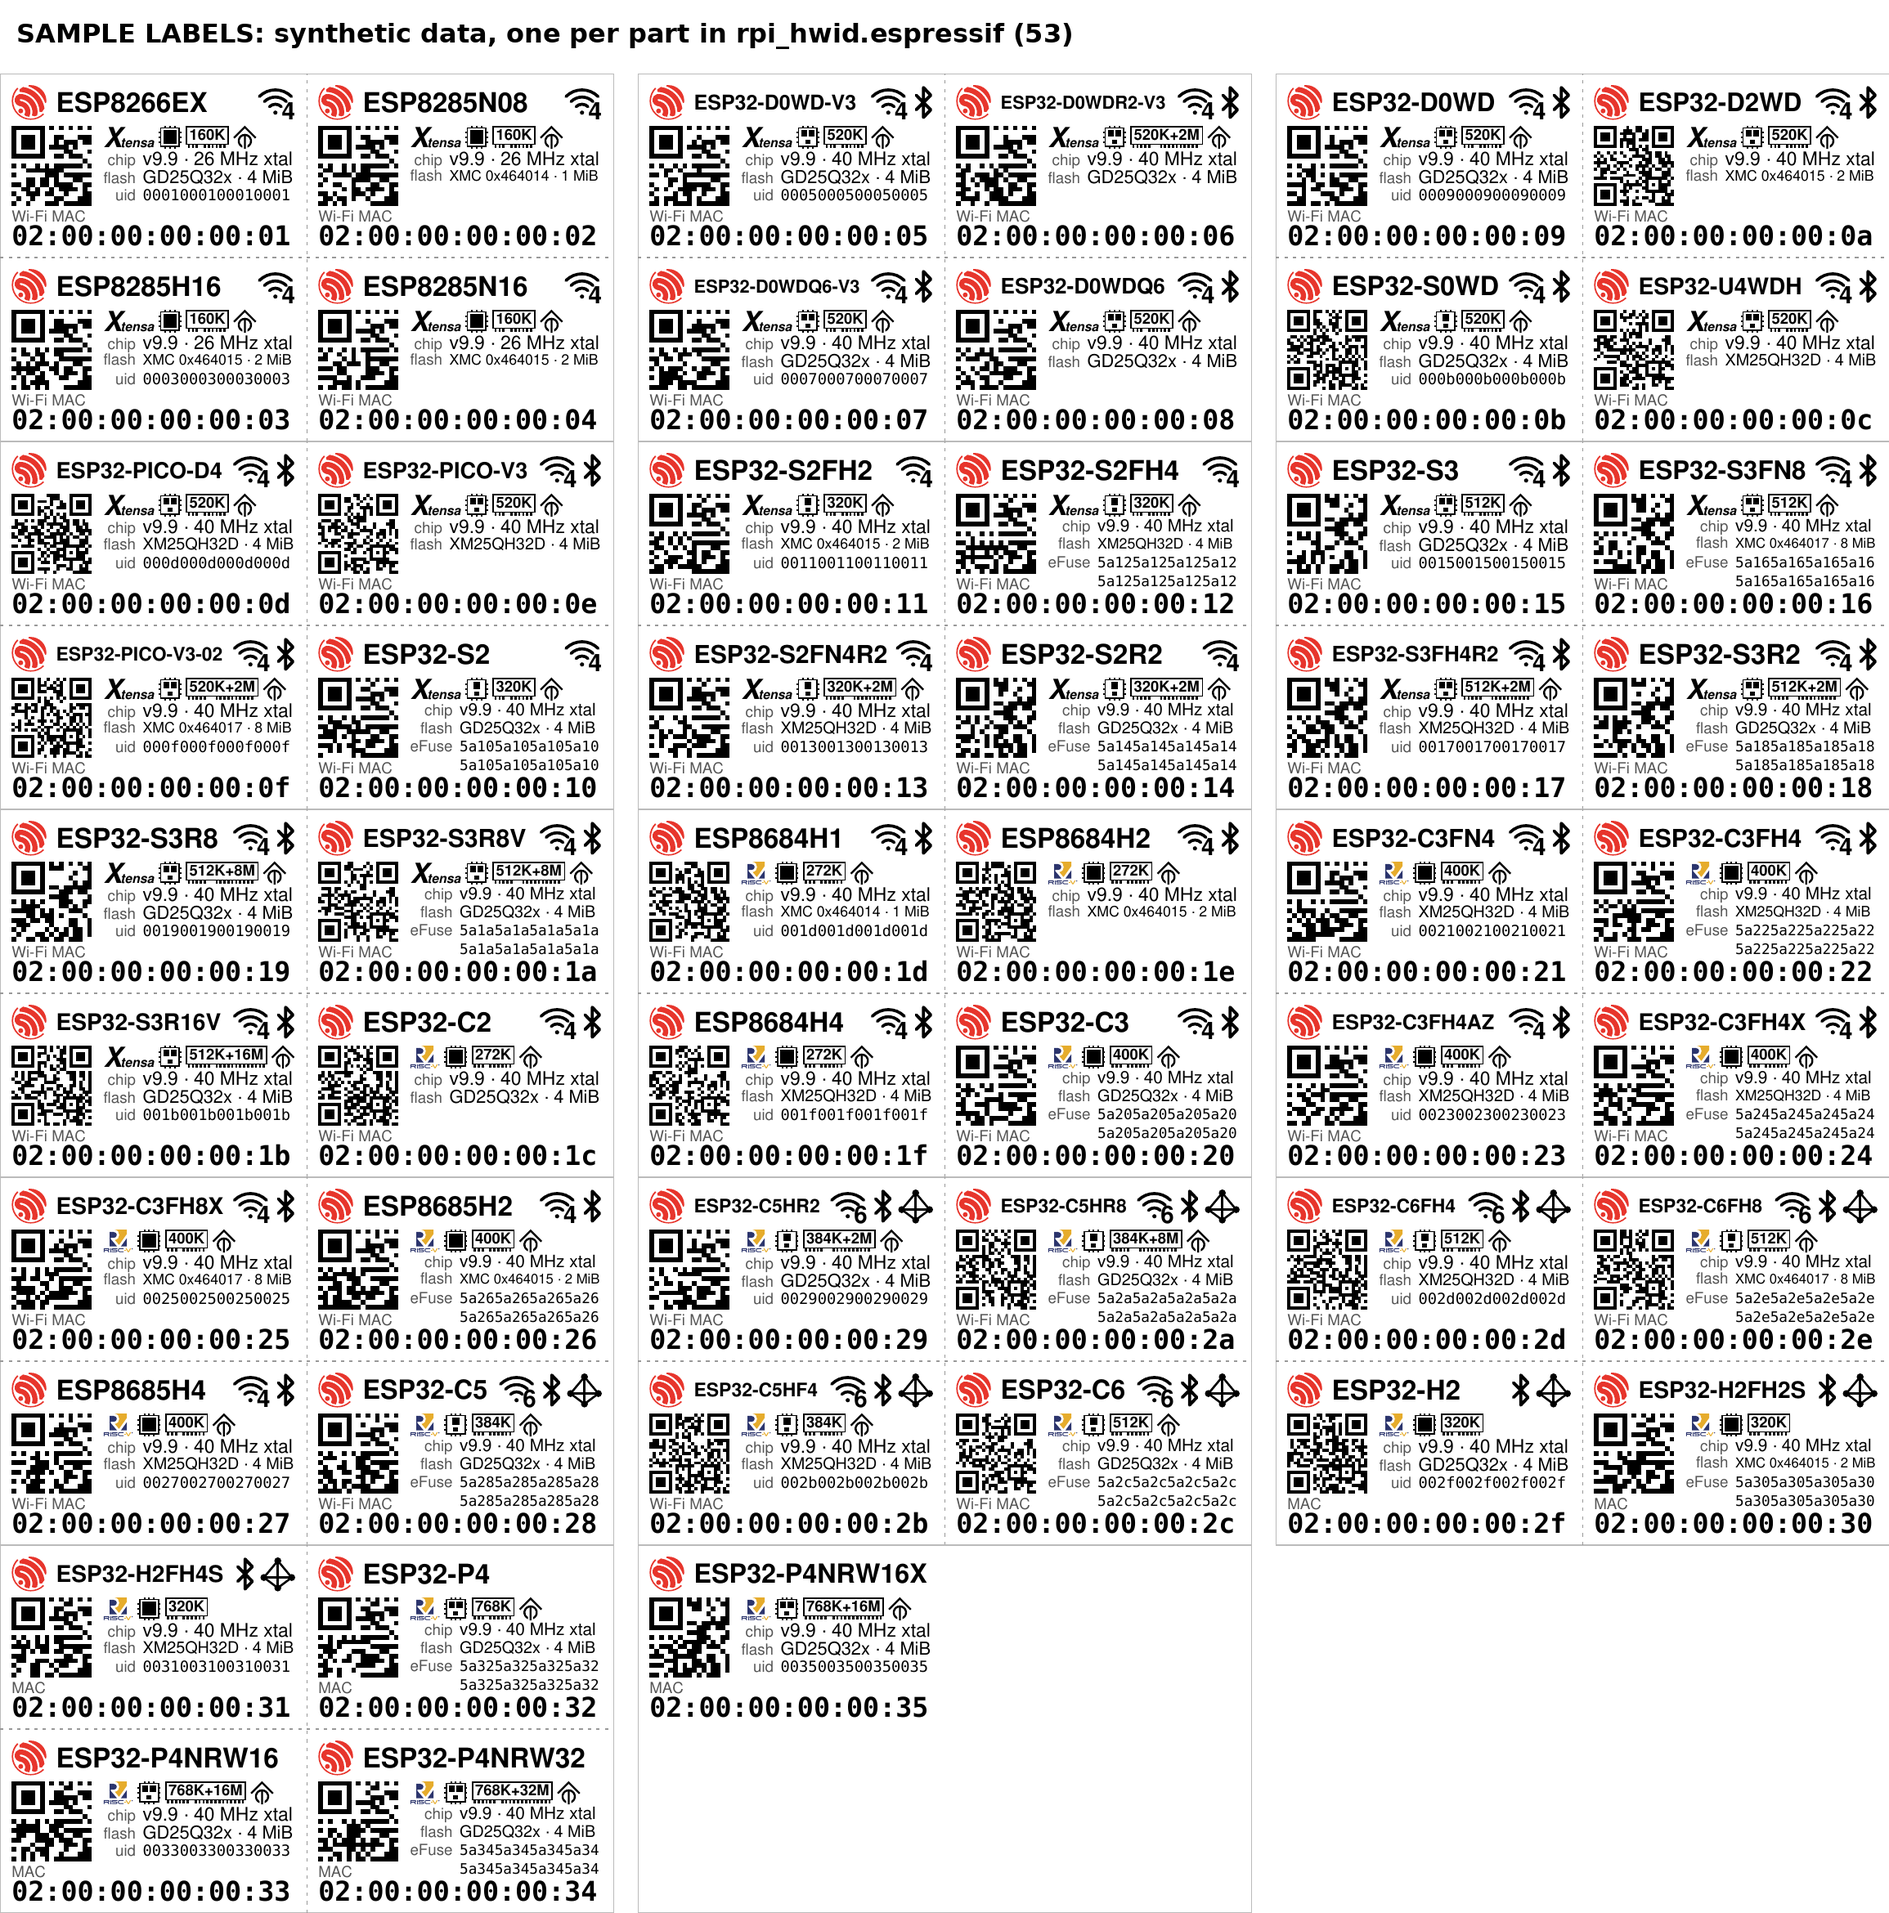
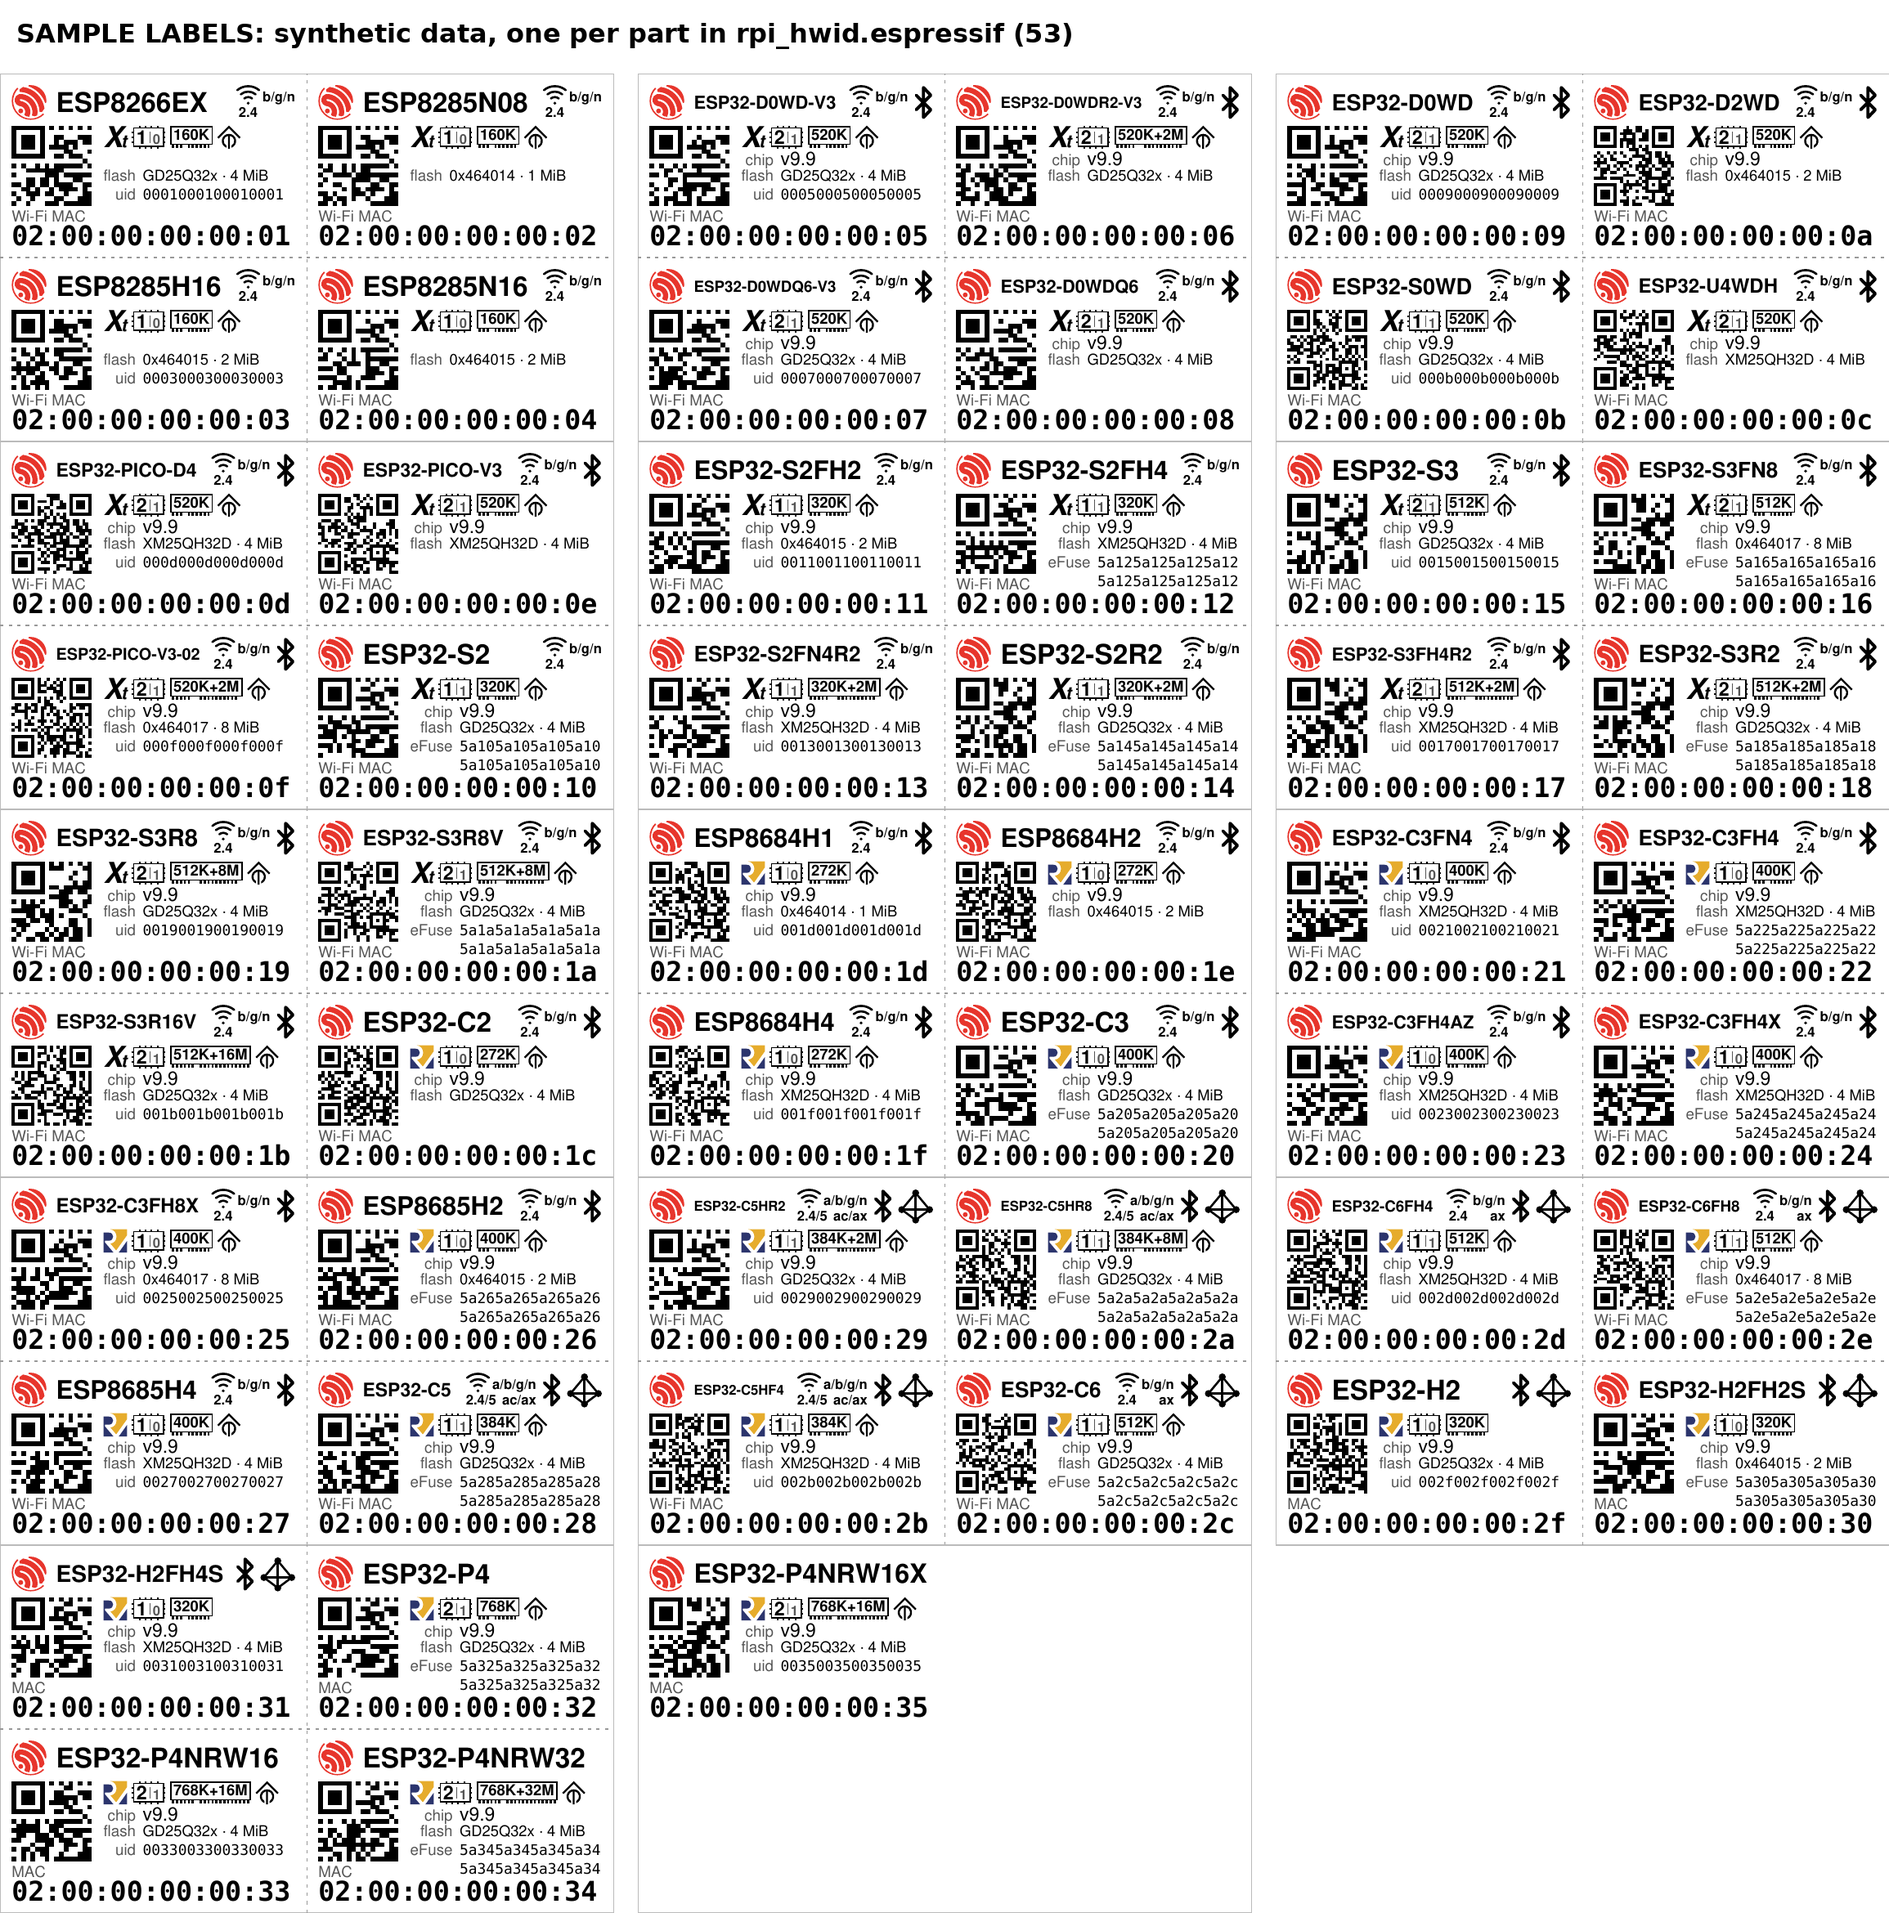
docs: the ESP32 labels with Wi-Fi bands and standards and two-number cores
LABELS.md describes the new Wi-Fi and cores glyphs, the RISC-V mark and
the Xtensa "Xt", the chip row without the crystal, and the flash and
uid rows at one size; the stickers and the sheet of every part are
rendered again.

Claude-Session: https://claude.ai/code/session_01PBYpeR32kHxmN65GqkGhJx

diff --git a/docs/LABELS.md b/docs/LABELS.md
@@ -326,21 +326,24 @@ one it is. The strip's glyphs are registered like the header's:
 
 | glyph | draws |
 |---|---|
-| `Icon("riscv")` | the RISC-V logo, RISC-V International's own file |
-| `Icon("xtensa")` | "Xtensa" set as a wordmark (Cadence publishes no logo for it) |
-| `Icon("cores", "2+1")` | a die with a filled square per core, and a small one for a low-power core |
+| `Icon("riscv")` | the RISC-V mark, the "RV" of RISC-V International's own file without its wordmark |
+| `Icon("xtensa")` | "Xt", set from the name in the RISC-V mark's box (Cadence publishes no logo for it) |
+| `Icon("cores", "2+1")` | a package with two numbers on its die: the application cores large and black, then past a divider the low-power cores small and grey |
 | `Icon("memory", "512K+8M")` | a memory module with its size lettered on it |
 | `Icon("tasmota")` | the Tasmota symbol, from the Tasmota repository |
 | `Icon("bluetooth")` | the Bluetooth rune |
 | `Icon("mesh")` | four linked nodes: an IEEE 802.15.4 (Thread, Zigbee) radio |
-| `Icon("wifi", "6")` | the Wi-Fi arcs with the generation in the corner they leave |
+| `Icon("wifi", "2.4/5 a/b/g/n/ac/ax")` | the Wi-Fi arcs with the band under them, the single-letter 802.11 standards beside them and the two-letter ones (ac, ax) beside the band, bold at 4 pt (a header glyph) |
 
 A strip too wide for the band is refused when the label is made.
 
 The same rules apply as on every other label. A micro label with no
 identifier raises when it is constructed, naming the host (and the command
 that reads it, when the caller says). A row with no value is refused rather
-than printed blank. A monospace row is taken to be an identifier someone
+than printed blank; `BLANK_ROW` keeps a row's place empty on purpose, so
+the rows under it stay where they are on other labels. A row with a `size`
+is set at that size on every label rather than shrunk to its value's
+length, and one whose value does not fit whole at it is refused. A monospace row is taken to be an identifier someone
 might type, so it is never elided: a value that will not fit whole at 4 pt
 is an error, not an ellipsis. Too many rows is an error too, not a silent
 drop.
@@ -375,27 +378,32 @@ the same places:
   printed whole: `ESP32-D0WD-V3`, or `ESP32-C3FH4`, where esptool names the
   die and the chip's eFuse the flash in its package (see
   [ESPRESSIF.md](ESPRESSIF.md#which-part-a-read-names)). Then the part's
-  radios: Wi-Fi with its generation (4 or 6), Bluetooth, and the 802.15.4
-  mesh on a C5, C6 or H2.
+  radios: Wi-Fi with its bands and 802.11 standards (`2.4` and `b/g/n`;
+  `b/g/n` and `ax` on a C6; `2.4/5`, `a/b/g/n` and `ac/ax` on a C5),
+  Bluetooth, and the 802.15.4 mesh on a C5, C6 or H2.
 - **Spec strip:** what every chip of that part is, from the table in
   `rpi_hwid.espressif` ([ESPRESSIF.md](ESPRESSIF.md), every value cited): the
-  ISA (the RISC-V logo, or the Xtensa wordmark), the cores (the ULP or LP
-  core small), the on-chip SRAM with any PSRAM in the package (`512K+8M`),
+  ISA (the RISC-V mark, or the Xtensa "Xt" in the same box), the cores as
+  two numbers (the application cores, then the ULP or LP cores, small and
+  grey: `2|1` on an ESP32, `1|0` on a C3, which has none), the on-chip SRAM with any PSRAM in the package (`512K+8M`),
   and the Tasmota symbol where Tasmota ships a binary for the part.
 - **Rows,** read from this chip, always in this order:
-  - `chip`: the silicon revision and the crystal. An ESP8266 reports no
-    revision, so its row is the crystal alone.
+  - `chip`: the silicon revision. An ESP8266 reports none, so its row's
+    place is left blank. The crystal is read and kept in the document, but
+    not printed.
   - `flash`: the flash's part where the read settles it (`GD25Q32x`,
     `XM25QH32D`, or `BY25Q32ES` where a Boya's 128-bit unique id tells it
-    from the 64-bit BS), else its vendor and JEDEC id (`XMC 0x464017`); then
-    its size. In the package or beside it, the flash is on this row.
+    from the 64-bit BS), else its JEDEC id (`0x464017`, with its vendor
+    where that fits); then its size. The row prints at one size, 4.4 pt, on
+    every label, whatever the length of the part's name. In the package or beside it, the flash is on this row.
     [research/esp32-flash.md](research/esp32-flash.md) has the reads and the
     datasheets behind each name.
   - `uid`: the flash's own unique id, 64 bits on one row or 128 over two.
     Where the flash gives none, `eFuse` and the chip's 128-bit
     `OPTIONAL_UNIQUE_ID` over two rows stand in its place. A chip with
     neither has no uid rows. An ESP32-C3 has both; which one is printed is
-    `esp32_micro.SERIALS`, one line.
+    `esp32_micro.SERIALS`, one line. The uid rows print at one size too,
+    4.3 pt, beside either caption.
 - **Foot and QR:** the base MAC, burned into eFuse: the Wi-Fi station MAC,
   or on an H2, which has no Wi-Fi, the MAC.
 
@@ -441,8 +449,9 @@ For a label that builds on this one (an ESP32 with a 433 MHz radio, say),
 ## Artwork
 
 The package ships the Raspberry Pi raspberry, the Orange Pi orange, the Alphamax,
-Digilent, SQRL, Great Scott Gadgets, SiFive and Tiny Tapeout marks and the RISC-V logo (each its owner's trademark, drawn only on that
-maker's own hardware to identify it) and the public-domain USB trident; see
+Digilent, SQRL, Great Scott Gadgets, SiFive, Tiny Tapeout and Espressif marks, the RISC-V logo and
+its "RV" mark alone, and the Tasmota symbol (each its owner's mark, drawn only where it applies: on its
+maker's own hardware, on a RISC-V part, on a device Tasmota runs on) and the public-domain USB trident; see
 [`src/rpi_hwid/artwork/README.md`](../src/rpi_hwid/artwork/README.md) for the
 sources. A `--artwork DIR` overrides any of them and may add a `netv2.svg`. A
 board whose maker has no mark gets the name in type.
